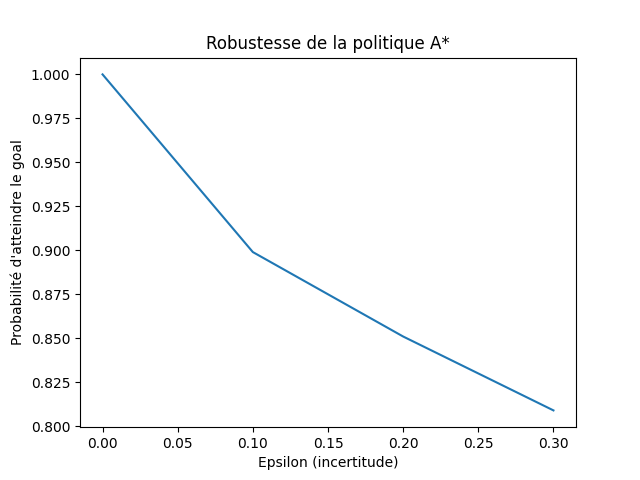
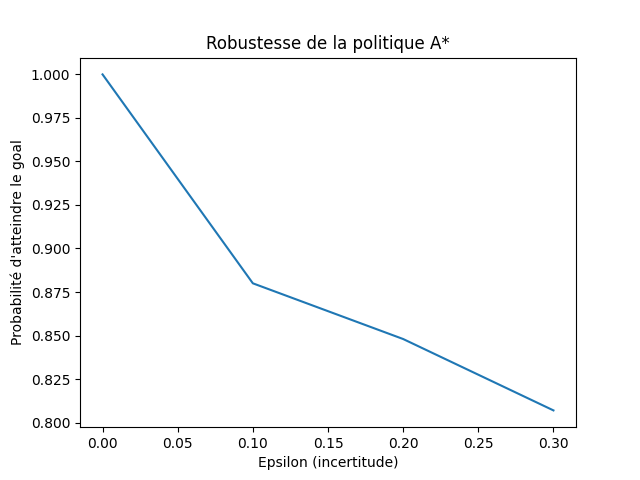
Add Markov transition matrix and theoretical evolution analysis

diff --git a/src/markov.py b/src/markov.py
@@ -3,18 +3,84 @@ import numpy as np
 
 
 class MarkovSimulator:
+
     def __init__(self, grid, policy, epsilon=0.1):
+
         self.grid = grid
         self.policy = policy
         self.epsilon = epsilon
 
+        # Construction de l'ensemble des états
+        self.states = self.build_states()
+
+        # Index des états
+        self.index = {s: i for i, s in enumerate(self.states)}
+
+        # Construction de la matrice de transition
+        self.P = self.build_transition_matrix()
+
+    # ============================
+    # Construction des états
+    # ============================
+
+    def build_states(self):
+
+        states = []
+
+        for x in range(self.grid.width):
+            for y in range(self.grid.height):
+
+                s = (x, y)
+
+                if self.grid.is_free(s):
+                    states.append(s)
+
+        return states
+
+    # ============================
+    # Construction matrice P
+    # ============================
+
+    def build_transition_matrix(self):
+
+        n = len(self.states)
+
+        P = np.zeros((n, n))
+
+        for s in self.states:
+
+            i = self.index[s]
+
+            neighbors = self.grid.neighbors(s)
+
+            if not neighbors:
+                P[i, i] = 1
+                continue
+
+            intended = self.policy.get(s, s)
+
+            for nb in neighbors:
+
+                j = self.index[nb]
+
+                if nb == intended:
+                    P[i, j] += 1 - self.epsilon
+                else:
+                    P[i, j] += self.epsilon / len(neighbors)
+
+        return P
+
+    # ============================
+    # Simulation Monte Carlo
+    # ============================
+
     def step(self, state):
+
         neighbors = self.grid.neighbors(state)
 
         if not neighbors:
             return state
 
-        # Mouvement prévu par la politique
         intended = self.policy.get(state, state)
 
         if random.random() < 1 - self.epsilon:
@@ -23,14 +89,17 @@ class MarkovSimulator:
             return random.choice(neighbors)
 
     def simulate(self, N=1000, max_steps=200):
+
         successes = 0
         times = []
 
         for _ in range(N):
+
             state = self.grid.start
             t = 0
 
             while state != self.grid.goal and t < max_steps:
+
                 state = self.step(state)
                 t += 1
 
@@ -42,3 +111,29 @@ class MarkovSimulator:
         mean_time = np.mean(times) if times else float("inf")
 
         return prob, mean_time
+
+    # ============================
+    # Evolution π(n) = π(0) P^n
+    # ============================
+
+    def markov_evolution(self, steps=20):
+
+        n = len(self.states)
+
+        pi = np.zeros(n)
+
+        start_index = self.index[self.grid.start]
+
+        pi[start_index] = 1
+
+        goal_index = self.index[self.grid.goal]
+
+        probabilities = []
+
+        for _ in range(steps):
+
+            pi = pi @ self.P
+
+            probabilities.append(pi[goal_index])
+
+        return probabilities

diff --git a/main.py b/main.py
@@ -3,6 +3,7 @@ from src.astar import best_first_search
 from src.markov import MarkovSimulator
 import matplotlib.pyplot as plt
 
+
 if __name__ == "__main__":
 
     # =========================
@@ -20,6 +21,7 @@ if __name__ == "__main__":
 
     # Construction de la politique
     policy = {}
+
     for i in range(len(path) - 1):
         policy[path[i]] = path[i + 1]
 
@@ -31,45 +33,66 @@ if __name__ == "__main__":
 
     epsilons = [0.0, 0.1, 0.2, 0.3]
 
-    for eps in epsilons:
-        simulator = MarkovSimulator(grid, policy, epsilon=eps)
-        prob, mean_time = simulator.simulate(N=1000)
-
-        print(f"\nEpsilon = {eps}")
-        print("Probabilité d'atteindre le goal :", prob)
-        print("Temps moyen :", mean_time)
-    # Stockage des résultats
-    epsilons = [0.0, 0.1, 0.2, 0.3]
     probs = []
     times = []
 
     for eps in epsilons:
+
         simulator = MarkovSimulator(grid, policy, epsilon=eps)
+
         prob, mean_time = simulator.simulate(N=1000)
 
         probs.append(prob)
         times.append(mean_time)
 
+        print(f"\nEpsilon = {eps}")
+        print("Probabilité d'atteindre le goal :", prob)
+        print("Temps moyen :", mean_time)
+
     # ========================
     # Figure 1 : Probabilité
     # ========================
+
     plt.figure()
+
     plt.plot(epsilons, probs)
+
     plt.xlabel("Epsilon (incertitude)")
     plt.ylabel("Probabilité d'atteindre le goal")
+
     plt.title("Robustesse de la politique A*")
+
     plt.savefig("figures/markov_probability.png")
+
     plt.close()
 
     # ========================
     # Figure 2 : Temps moyen
     # ========================
+
     plt.figure()
+
     plt.plot(epsilons, times)
+
     plt.xlabel("Epsilon (incertitude)")
     plt.ylabel("Temps moyen pour atteindre le goal")
+
     plt.title("Impact de l'incertitude sur le temps")
+
     plt.savefig("figures/markov_time.png")
+
     plt.close()
+
+    # ========================
+    # Evolution Markov
+    # ========================
+
+    simulator = MarkovSimulator(grid, policy, epsilon=0.1)
+
+    probabilities = simulator.markov_evolution(steps=20)
+
+    print("\nEvolution de la probabilité d'être dans GOAL :")
+
+    print(probabilities)
 
     print("\nFigures Markov générées dans le dossier figures/")

diff --git a/src/plot_grid.py b/src/plot_grid.py
@@ -1,0 +1,35 @@
+import matplotlib.pyplot as plt
+from src.grid import Grid
+
+if __name__ == "__main__":
+    grid = Grid()
+    
+    # Créer la figure
+    fig, ax = plt.subplots(figsize=(6,6))
+    
+    # Dessiner la grille
+    for x in range(grid.width):
+        for y in range(grid.height):
+            rect = plt.Rectangle((x, y), 1, 1, fill=False, edgecolor='gray')
+            ax.add_patch(rect)
+    
+    # Dessiner obstacles
+    for obs in grid.obstacles:
+        rect = plt.Rectangle(obs, 1, 1, color='black')
+        ax.add_patch(rect)
+    
+    # Dessiner start
+    ax.add_patch(plt.Rectangle(grid.start, 1, 1, color='green'))
+    ax.text(grid.start[0]+0.5, grid.start[1]+0.5, 'Start', ha='center', va='center', color='white', fontsize=8)
+    
+    # Dessiner goal
+    ax.add_patch(plt.Rectangle(grid.goal, 1, 1, color='red'))
+    ax.text(grid.goal[0]+0.5, grid.goal[1]+0.5, 'Goal', ha='center', va='center', color='white', fontsize=8)
+    
+    ax.set_xlim(0, grid.width)
+    ax.set_ylim(0, grid.height)
+    ax.set_aspect('equal')
+    ax.invert_yaxis()  # pour correspondre à la disposition matricielle
+    plt.title("Grille 10x10 avec Start, Goal et Obstacles")
+    plt.savefig("figures/grid_initial.png")
+    plt.show()

diff --git a/src/simulation.py b/src/simulation.py
@@ -1,0 +1,21 @@
+import numpy as np
+
+
+def markov_evolution(markov, steps=50):
+
+    P = markov.P
+    start = markov.index[markov.grid.start]
+
+    pi = np.zeros(len(markov.states))
+    pi[start] = 1
+
+    probabilities = []
+
+    for n in range(steps):
+
+        pi = pi @ P
+        goal_index = markov.index[markov.grid.goal]
+
+        probabilities.append(pi[goal_index])
+
+    return probabilities
